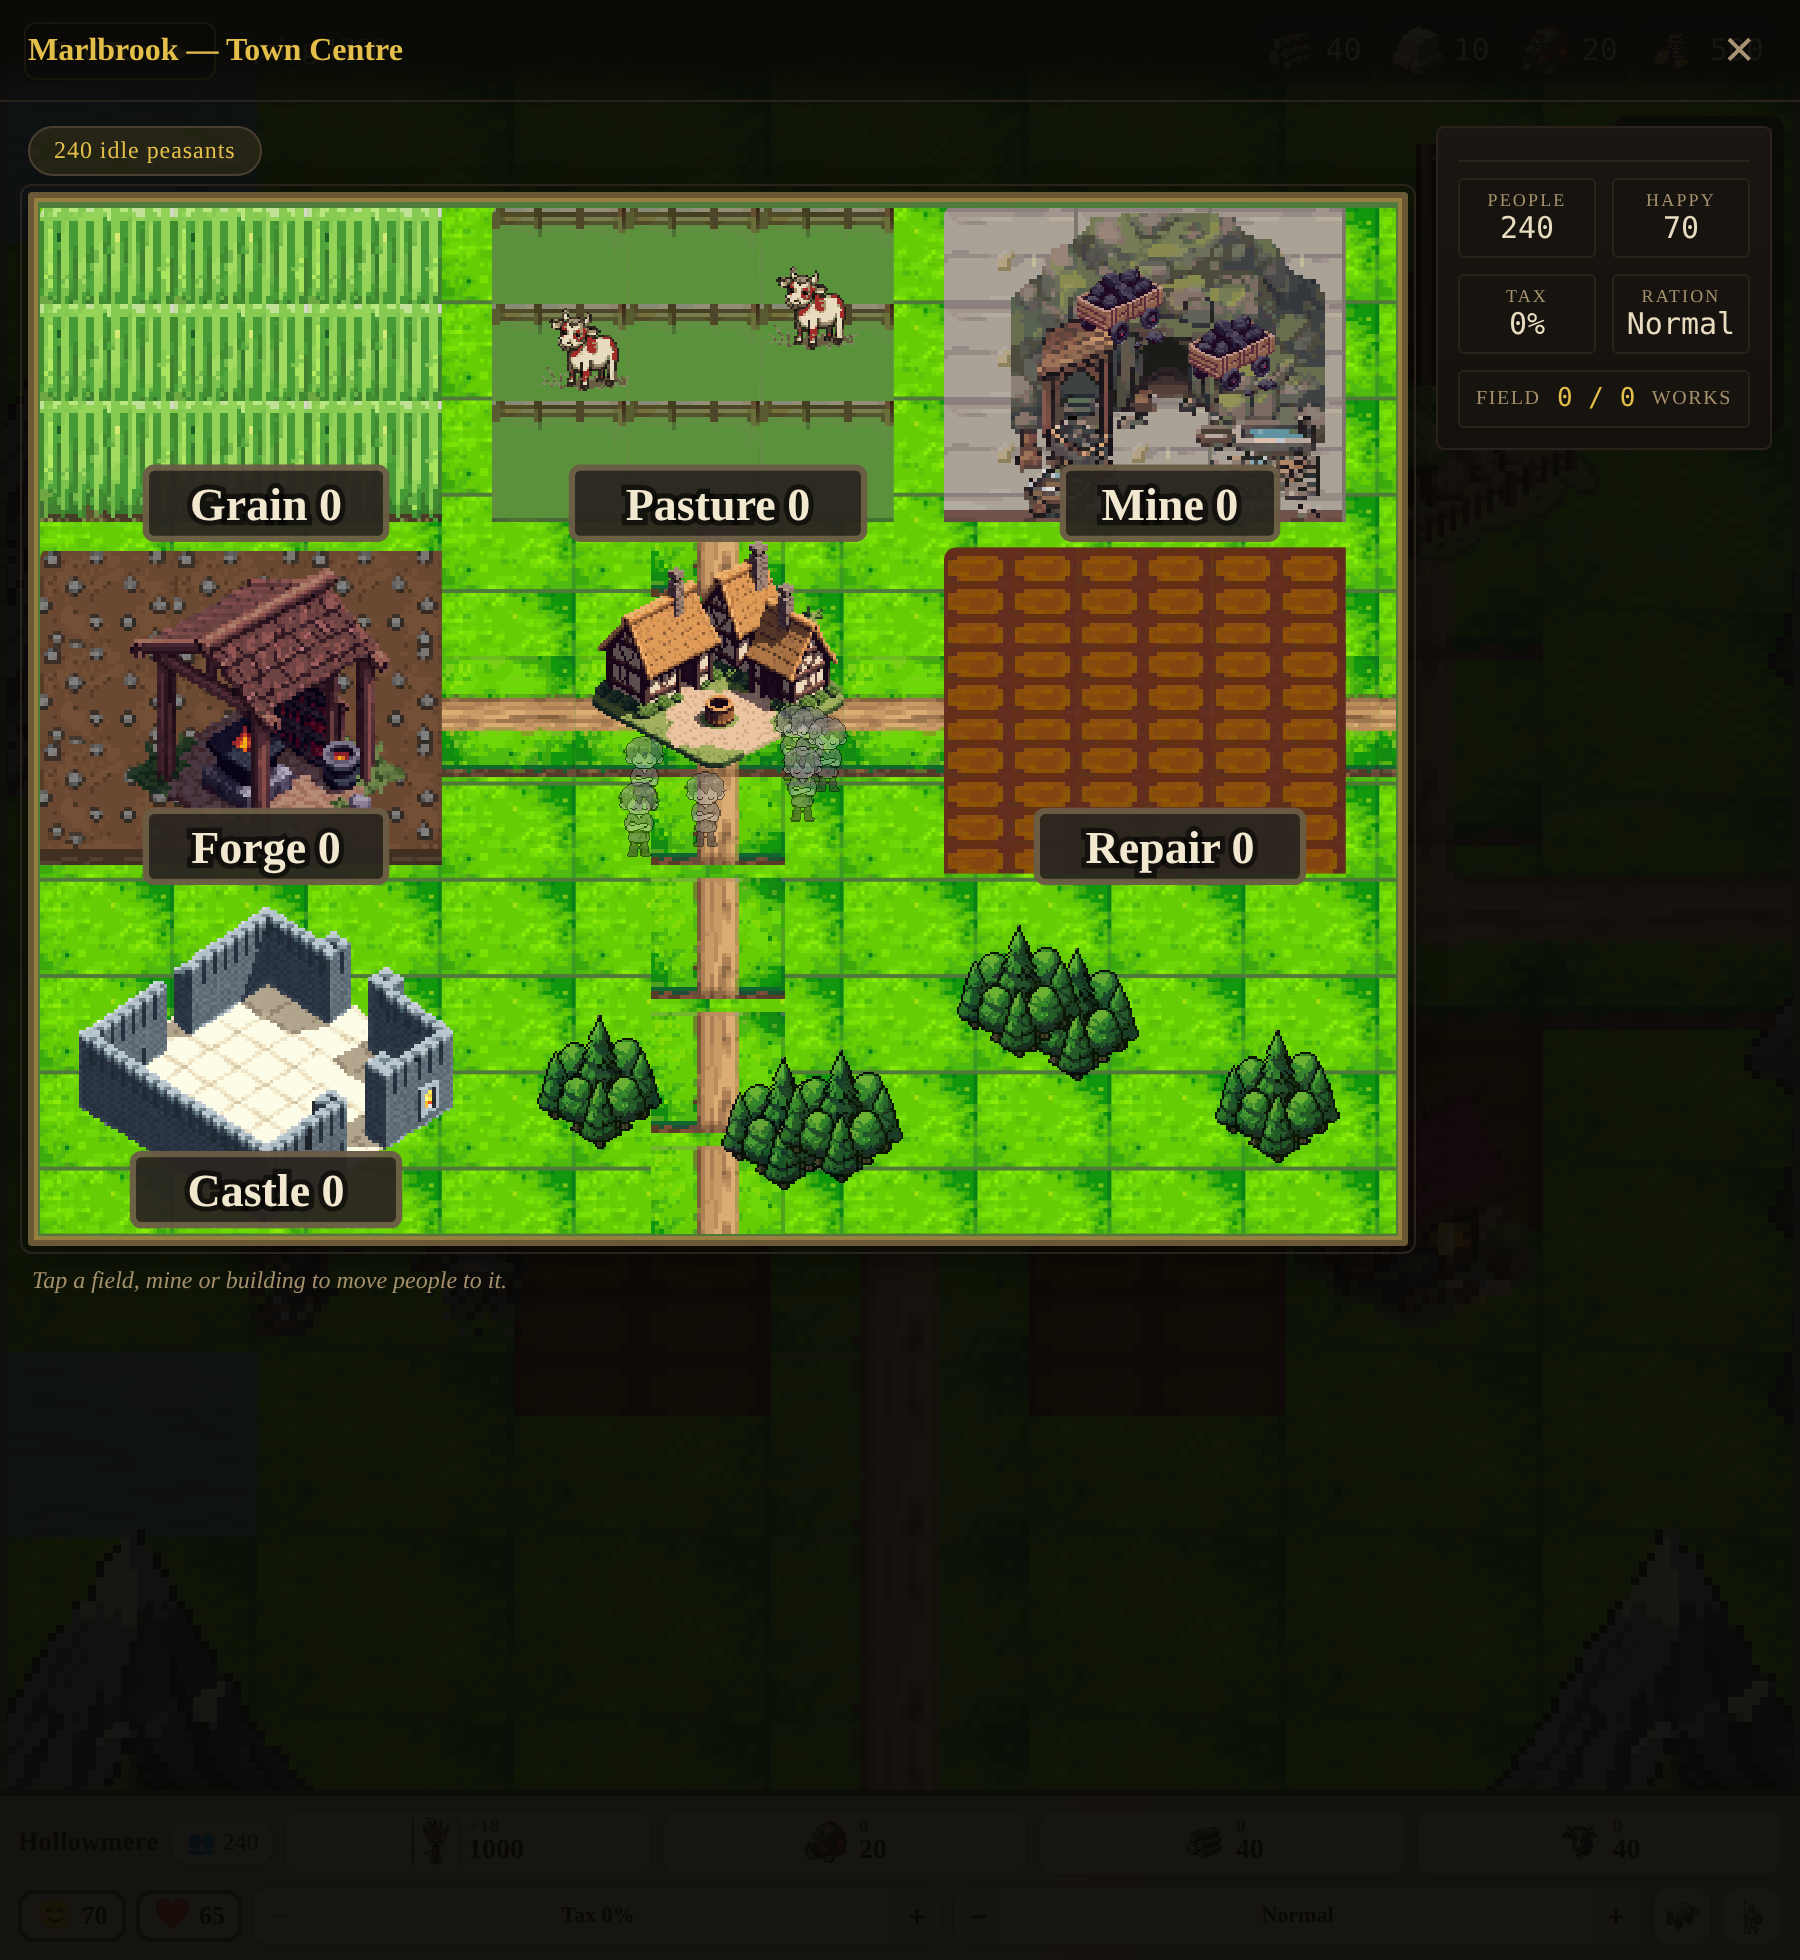
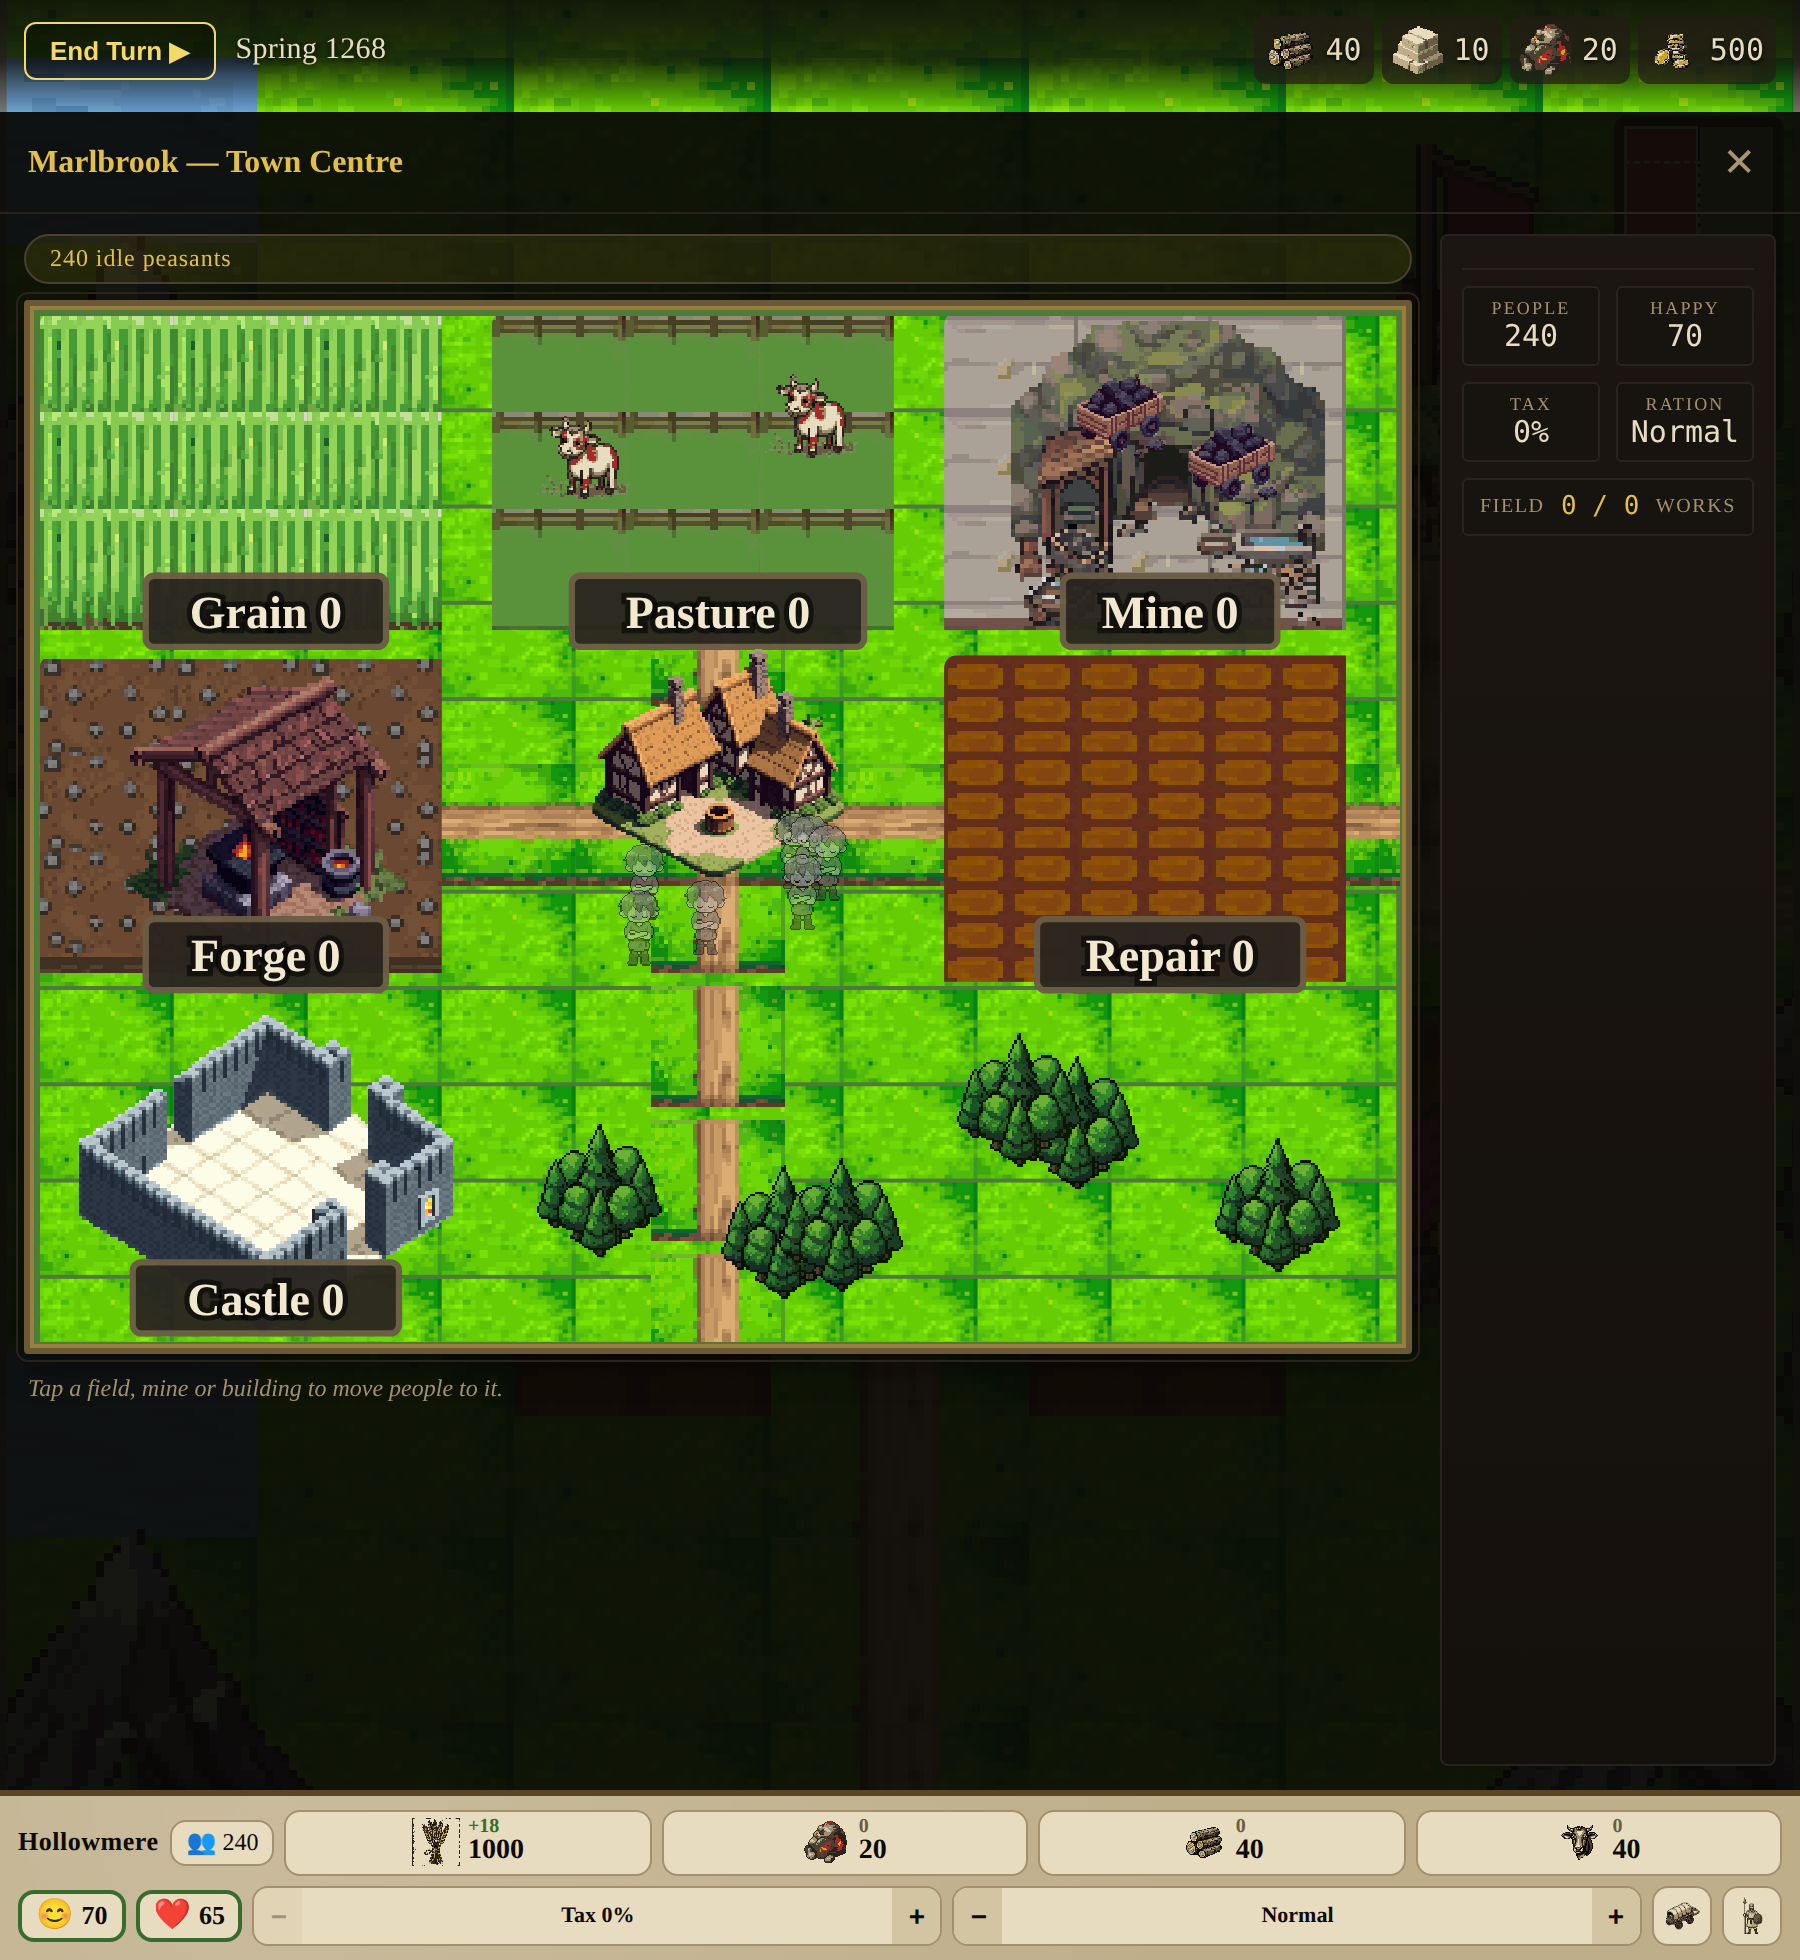
Sit the labor screen between the game's bars instead of over them
The overlay was inset:0, covering the whole viewport including the
resource totals and the county strip, and its content only filled the top
two thirds — 314px of dead space under the map on a 980px window.

It now spans exactly from the bottom of the top bar to the top of the
county strip, so both stay readable while labour is being moved, which is
most of why anyone opens this screen.

The bar heights are MEASURED at runtime, not hardcoded. Both carry
env(safe-area-inset-*) padding, so their real height differs between a
desktop window and a notched phone; a fixed 56/85 would clip the map or
leave a gap on exactly the devices that can least afford it.

Two wrong turns on the way, both caught by measuring rather than looking:

- Letting the frame fill the freed height made it the container's shape,
  not the map's, so the plan letterboxed inside it with green bands top
  and bottom.
- Fixing that with an explicit height beat the aspect ratio outright —
  CSS only derives the dimension you leave out — and the bands came back
  at 378x436 against an expected 378x287.

Width-driven with the height derived from the aspect holds at both sizes:
378x284 on a 414px phone, which is 1.317 against the plan's own 324/246.
The aspect is published inline from PLAN_W/PLAN_H so the frame and the
viewBox cannot disagree.

Verified at 414 and 900 wide: no horizontal overflow, rail stacks below on
narrow, both bars fully visible, no console or page errors, nothing
escaping to the network.
[…]

diff --git a/playtest/aldermarch-game.html b/playtest/aldermarch-game.html
@@ -1773,14 +1773,51 @@ body {
 .ov-town {
   display: flex;
   gap: 14px;
-  align-items: flex-start;
-  padding: 12px 14px 18px;
+  align-items: stretch;
+  padding: 10px 12px 12px;
+  /* Fill what the overlay gives it, and let the children divide it. `auto`
+     overflow stays for the narrow case where the rail stacks underneath. */
+  flex: 1 1 auto;
+  min-height: 0;
   overflow-y: auto;
 }
 
-.ov-town-left { flex: 1 1 auto; min-width: 0; }
+.ov-town-left {
+  flex: 1 1 auto;
+  min-width: 0;
+  min-height: 0;
+  display: flex;
+  flex-direction: column;
+}
+
+/* Between the game's own bars, never over them — the resource totals and the
+   county strip stay readable while labour is being moved, which is most of
+   why anyone opens this screen. Heights come from JS because both bars carry
+   safe-area padding. */
+.ov-labor-overlay {
+  top: var(--ov-chrome-top, 0px) !important;
+  bottom: var(--ov-chrome-bottom, 0px) !important;
+  inset-inline: 0 !important;
+}
 
 .ov-plan-frame {
+  /* Fits itself into the space the rail and stepper leave, KEEPING THE MAP'S
+     SHAPE. Letting the frame fill the box instead made it taller than the plan
+     and left green bands above and below — the frame is a border round the
+     land, so it has to be the land's shape. Aspect comes from the plan's own
+     dimensions, set inline, so the two can never disagree. */
+  /* WIDTH-DRIVEN, height from the aspect. Setting an explicit height instead
+     beat the aspect ratio — CSS only derives the dimension you leave out — so
+     the frame came out the container's shape and the map letterboxed inside it
+     with green bands top and bottom. Width is also the axis that matters on a
+     phone, which is what this screen is for. */
+  aspect-ratio: var(--plan-aspect, 4 / 3);
+  align-self: center;
+  flex: 0 0 auto;
+  width: 100%;
+  max-width: 100%;
+  min-height: 0;
+  display: flex;
   /* The ornate border of the references, rebuilt from this game's own
      materials: a double rule in aged gold over ink, rather than a bitmap
      frame that would have to be redrawn at every size. */
@@ -1793,7 +1830,7 @@ body {
   padding: 3px;
 }
 
-.ov-plan { display: block; width: 100%; height: auto; }
+.ov-plan { display: block; width: 100%; height: 100%; min-height: 0; }
 
 .ov-idle-pill {
   display: inline-block;
@@ -17239,7 +17276,7 @@ function TownPlan({ plots, idle, selected, onSelect, seat }) {
 		nodes.push(h("g", { key: `sc${i}`, transform: `translate(${s.x} ${s.y})`, opacity: 0.9 }, trees));
 	}
 
-	return h("div", { className: "ov-plan-frame" },
+	return h("div", { className: "ov-plan-frame", style: { "--plan-aspect": `${PLAN_W} / ${PLAN_H}` } },
 		h("svg", {
 			className: "ov-plan", viewBox: `0 0 ${PLAN_W} ${PLAN_H}`,
 			role: "group", "aria-label": "County labor plan",
@@ -17291,6 +17328,29 @@ function LaborScreen({ match, countyId, countyName, onChange, onClose }) {
 	const [selected, setSelected] = import_react.useState(null);
 	const h = import_react.createElement;
 
+	/**
+	 * Sit between the game's own chrome rather than on top of it.
+	 *
+	 * The heights are MEASURED, not hardcoded: both bars carry
+	 * env(safe-area-inset-*) padding, so their real height differs between a
+	 * desktop window and a notched phone, and a fixed 56/85 would either clip
+	 * the map or leave a gap exactly on the devices that can least afford it.
+	 */
+	const shell = import_react.useRef(null);
+	import_react.useEffect(() => {
+		const fit = () => {
+			const el = shell.current;
+			if (!el) return;
+			const top = document.querySelector(".ov-top");
+			const strip = document.querySelector(".ov-strip");
+			el.style.setProperty("--ov-chrome-top", `${top ? top.getBoundingClientRect().height : 0}px`);
+			el.style.setProperty("--ov-chrome-bottom", `${strip ? strip.getBoundingClientRect().height : 0}px`);
+		};
+		fit();
+		window.addEventListener("resize", fit);
+		return () => window.removeEventListener("resize", fit);
+	}, []);
+
 	const plots = planPlots(county, {
 		quarryOrMine, blacksmith, lumberMill,
 		grainRequired, cattleRequired, grainFields, cattleFields,
@@ -17308,7 +17368,7 @@ function LaborScreen({ match, countyId, countyName, onChange, onClose }) {
 	const harvestAtRisk = grainFields.some((f) => grainStage(f.seasonsGrown) === "mature")
 		&& county.farmWorkers < grainRequired;
 
-	return h("div", { className: "ov-labor-overlay" }, [
+	return h("div", { className: "ov-labor-overlay", ref: shell }, [
 		h("div", { className: "ov-labor-header", key: "hd" }, [
 			h("h2", { key: "t" }, `${countyName ?? countyId} — Town Centre`),
 			h("button", { key: "x", className: "ov-labor-close", onClick: onClose }, "✕"),
